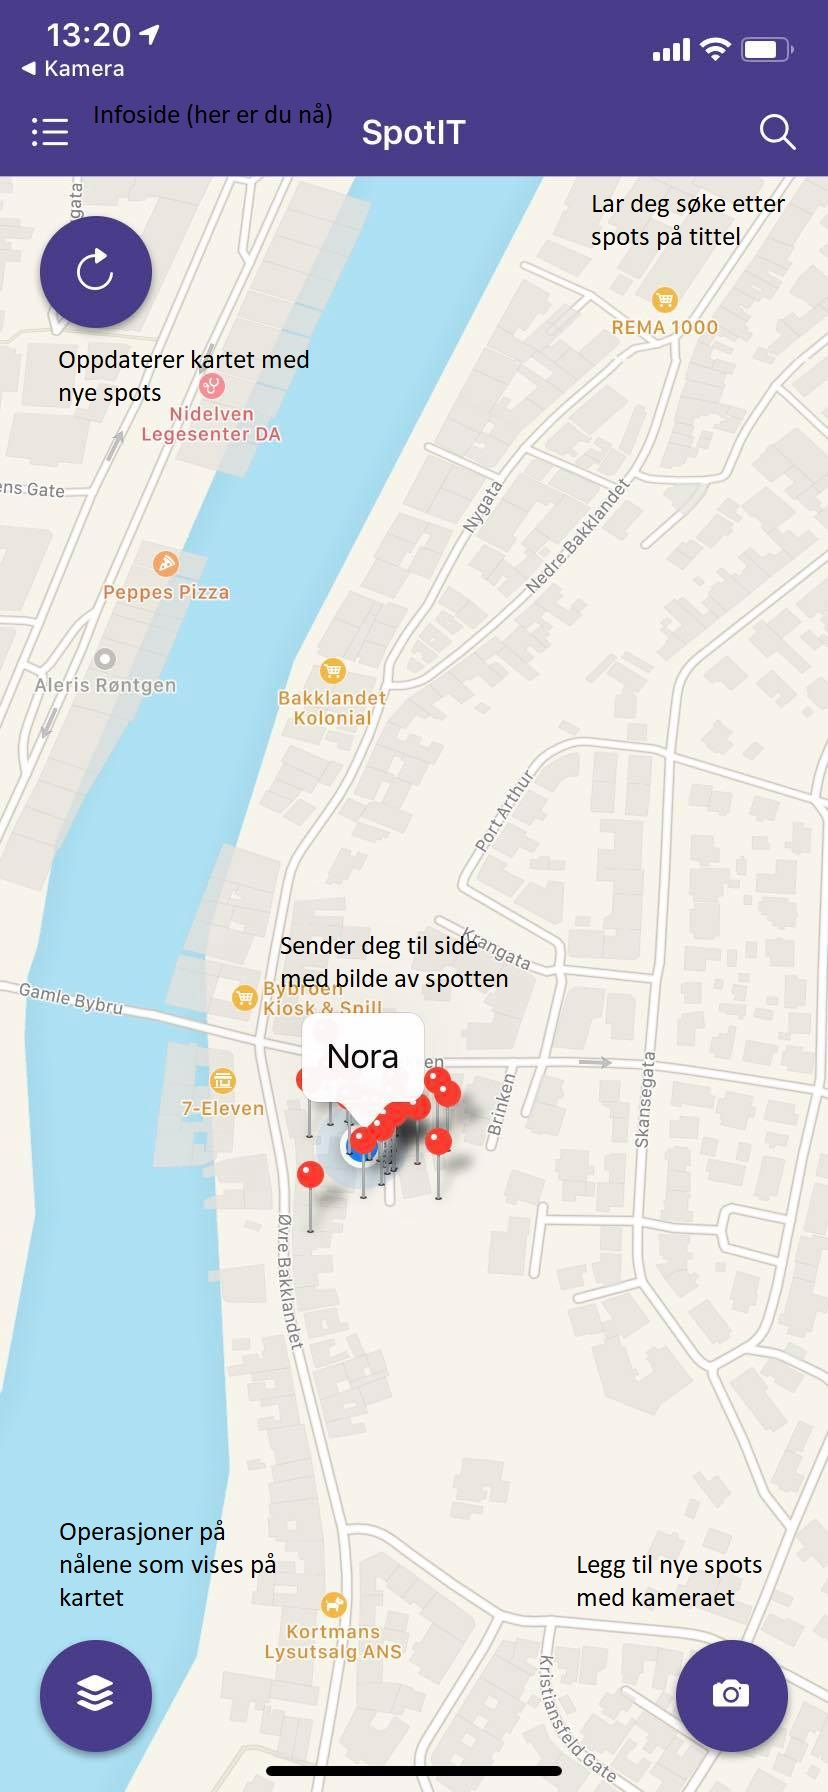
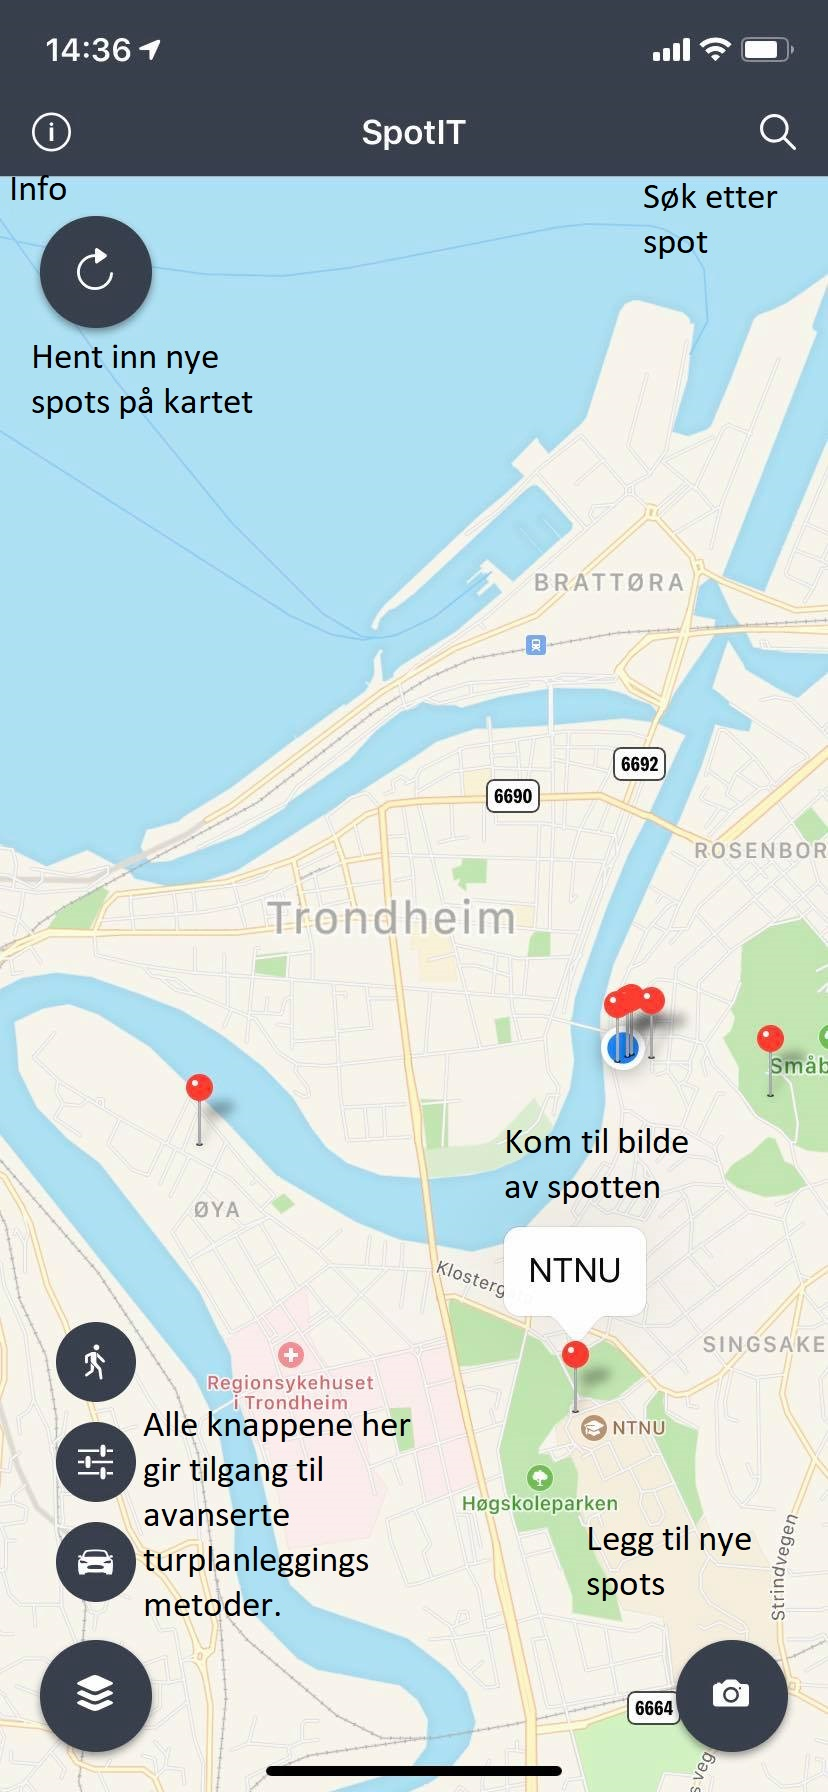
jeg er den som commiter vegard commiter aldri

diff --git a/Screens/WalkScreen.js b/Screens/WalkScreen.js
@@ -1,0 +1,273 @@
+import React, { Component } from 'react';
+import { View, Text, StyleSheet, Alert, TouchableOpacity, Image } from 'react-native';
+import { Picker, Icon, Button } from 'native-base';
+
+
+export default class WalkScreen extends Component {
+
+    static navigationOptions = {
+        headerTitle: 'SpotIT',
+        headerStyle: {
+            backgroundColor: '#393f4d'
+        },
+        headerTintColor: 'white'
+    }
+
+    constructor() {
+        super();
+        this.state = {
+            myLat: '',
+            myLong: '',
+            waitMsg: '',
+            type: 'Godt og blandet',
+            styrke: 'Medium',
+            rating: 0,
+            altitude:''
+        }
+        this.Star = require('../images/Star_full.png');
+        this.Star_With_Border = require('../images/Star_empty.png');
+    }
+    renderElement() {
+        if (this.state.myLat != '') {
+            this.submit();
+        }
+
+        else {
+            this.setState({
+                waitMsg: 'Oisann! Vi har ikke hentet din lokasjon enda. Prøv igjen om noen sekunder.'
+            })
+        }
+    }
+    UpdateRating(key) {
+        this.setState({ rating: key });
+        //Keeping the Rating Selected in state
+    }
+
+    componentDidMount() {
+        navigator.geolocation.getCurrentPosition(
+            position => {
+                this.setState({ 
+                    myLat: position.coords.latitude,
+                    myLong: position.coords.longitude,
+                    altitude: position.coords.altitude
+                });
+            },
+            error => Alert.alert(error.message),
+            { enableHighAccuracy: true, timeout: 20000, maximumAge: 1000 }
+        );
+    }
+
+    submit() {
+        let vp = {}
+        vp.latitude = this.state.myLat
+        vp.longitude = this.state.myLong
+        vp.styrke = this.state.styrke
+        vp.type = this.state.type
+        vp.rating = this.state.rating
+        vp.altitude = this.state.altitude
+        fetch('https://ff4349a1.ngrok.io/lazyWalk', {
+            method: 'POST', // or 'PUT'
+            headers: {
+                'Accept': 'application/json',
+                'Content-Type': 'application/json',
+            },
+            body: JSON.stringify(vp),
+        })
+            .then((response) => response.json())
+            .then((vp) => {
+                if (vp.viewPoints) {
+                    this.props.navigation.navigate('NewMap3', { vp: vp.viewPoints });
+                }
+                else {
+                    this.setState({
+                        waitMsg: 'Det finnes desverre ingen spots som matcher dine søkekriterier. '
+                    })
+                }
+            })
+            .catch((error) => {
+                console.error('Error:', error);
+            });
+    }
+
+    render() {
+
+        let Dynamic_Rating_Bar = [];
+        //Array to hold the filled or empty Stars
+        for (var i = 1; i <= 5; i++) {
+            Dynamic_Rating_Bar.push(
+                <TouchableOpacity
+                    activeOpacity={0.7}
+                    key={i}
+                    onPress={this.UpdateRating.bind(this, i)}>
+                    <Image
+                        style={styles.StarImage}
+                        source={
+                            i <= this.state.rating
+                                ? this.Star
+                                : this.Star_With_Border
+                        }
+                    />
+                </TouchableOpacity>
+            );
+        }
+        return (
+            <View style={styles.container}>
+
+                <View style={styles.textfield}>
+                    <View style={styles.item}>
+                        <Text style={{ textAlign: 'center', fontSize: 20, fontWeight: 'bold' }}>
+                            Finn spotten for deg!
+                        </Text>
+                    </View>
+                    <View style={styles.item}>
+                        <Text style={{ textAlign: 'center', fontSize: 15 }}>
+                            Ønsker du å slite deg ut minst mulig er dette funksjonalitet for deg!
+                            Her veies lengde av turen opp mot høydeforskjell etter eget ønske.
+                            Velg "Lett" hvis du hater bakker. Dersom kort turlengde er viktigst velg "Hard"
+                            Tilbake vil du få den perfekte sptten for deg! God tur!
+                        </Text>
+                    </View>
+                    <View style={styles.item}>
+                        <Text style={{ textAlign: 'center', fontWeight: 'bold', fontSize: 15 }}>Hilsen oss i SpotIT</Text>
+                    </View>
+                </View>
+
+                <View style={styles.ratingfield}>
+                    <View style={styles.rating}>
+                        <View style={styles.starview}>{Dynamic_Rating_Bar}</View>
+                    </View>
+                    <View style={styles.item}>
+                        <Text style={{ textAlign: 'center', fontSize: 15 }}>Minimum rating: {this.state.rating}</Text>
+                    </View>
+                </View>
+
+
+
+                <View style={styles.pickerfield}>
+                    <Picker
+                        selectedValue={this.state.styrke}
+                        style={styles.picker}
+                        onValueChange={(itemValue, itemIndex) => this.setState({ styrke: itemValue })}
+                        headerStyle={{ backgroundColor: '#393f4d' }}
+                        headerBackButtonTextStyle={{ color: 'white' }}
+                        headerTitleStyle={{ color: 'white' }}
+                        iosHeader="Velg type"
+                        iosIcon={<Icon name="arrow-down" />}>
+                        <Picker.Item label="Lett" value="Lett" />
+                        <Picker.Item label="Medium" value="Medium" />
+                        <Picker.Item label="Hard" value="Hard" />
+                    </Picker>
+                    <Picker
+                        selectedValue={this.state.type}
+                        style={styles.picker}
+                        onValueChange={(itemValue, itemIndex) => this.setState({ type: itemValue })}
+                        headerStyle={{ backgroundColor: '#393f4d' }}
+                        headerBackButtonTextStyle={{ color: 'white' }}
+                        headerTitleStyle={{ color: 'white' }}
+                        iosHeader="Velg type"
+                        iosIcon={<Icon name="arrow-down" />}>
+                        <Picker.Item label="Godt og blandet" value="Godt og blandet" />
+                        <Picker.Item label="Arkitektur" value="Arkitektur" />
+                        <Picker.Item label="Utkikkspunkt" value="Utkikkspunkt" />
+                        <Picker.Item label="Natur" value="Natur" />
+                        <Picker.Item label="Kultur" value="Kultur" />
+                        <Picker.Item label="Annet" value="Annet" />
+                    </Picker>
+
+                </View>
+                <View style={styles.buttonfield}>
+                    <Button onPress={() => this.renderElement()} rounded info>
+                        <Text>  Finn turområde!  </Text>
+                    </Button>
+                    <Text style={{ textAlign: 'center' }}>{this.state.waitMsg}</Text>
+                </View>
+
+            </View>
+        )
+    }
+}
+
+const styles = StyleSheet.create({
+    container: {
+        flex: 1,
+        alignItems: 'center',
+        justifyContent: 'center',
+        padding: 20,
+        //backgroundColor: 'black'
+    },
+    textfield: {
+        flex: 4,
+        alignItems: 'center',
+        justifyContent: 'center',
+        //backgroundColor: 'green',
+        width: '100%',
+        padding: 10
+    },
+    sliderfield: {
+        flex: 2,
+        width: '100%',
+        alignItems: 'center',
+        justifyContent: 'center',
+        //backgroundColor: 'yellow',
+        padding: 10,
+    },
+    ratingfield: {
+        flex: 2,
+        alignItems: 'center',
+        justifyContent: 'center',
+        //backgroundColor: 'blue',
+        padding: 10,
+        marginTop: -70
+    },
+    pickerfield: {
+        flex: 1,
+        alignItems: 'center',
+        width: '100%',
+        justifyContent: 'center',
+        //backgroundColor: 'blue',
+        padding: 10,
+    },
+    buttonfield: {
+        flex: 1,
+        alignItems: 'center',
+        justifyContent: 'center',
+        //backgroundColor: 'red',
+        width: '100%',
+        padding: 10,
+    },
+    item: {
+        padding: 5,
+        justifyContent: 'center',
+        alignItems: 'center',
+    },
+    slider: {
+        padding: 10,
+        justifyContent: 'center',
+        alignItems: 'center',
+        width: '100%',
+    },
+    rating: {
+        paddingBottom: 20,
+        alignItems: 'center',
+        justifyContent: 'center'
+    },
+    starview: {
+        justifyContent: 'center',
+        flexDirection: 'row',
+    },
+    StarImage: {
+        width: 35,
+        height: 35,
+        resizeMode: 'cover',
+    },
+    picker: {
+        flex: 1,
+        //borderColor: 'black',
+        //borderWidth: 2,
+        width: '60%',
+        //backgroundColor: 'purple',
+        justifyContent: 'center',
+        alignItems: 'center',
+    }
+})
+

diff --git a/Screens/HomeScreen.js b/Screens/HomeScreen.js
@@ -11,6 +11,7 @@ export default class HomeScreen extends React.Component {
       latitude: '',
       longitude: '',
       isLoading: true,
+      altitude: '',
     }
   }
 
@@ -49,7 +50,7 @@ export default class HomeScreen extends React.Component {
   }
 
   async updateData() {
-    return await fetch('https://b9c06019.ngrok.io/getViewPointInfo')
+    return await fetch('https://ff4349a1.ngrok.io/getViewPointInfo')
       .then((response) => response.json())
       .then((responseJson) => {
         this.setState({
@@ -67,6 +68,7 @@ export default class HomeScreen extends React.Component {
           this.setState({
             latitude: position.coords.latitude,
             longitude: position.coords.longitude,
+            altitude: position.coords.altitude,
             isLoading: false
           });
         },
@@ -75,7 +77,6 @@ export default class HomeScreen extends React.Component {
       );
     }
   }
-
   async componentDidMount() {
     this.getPosition()
     return await fetch('https://ff4349a1.ngrok.io/getViewPointInfo')
@@ -136,6 +137,9 @@ export default class HomeScreen extends React.Component {
           </Button>
           <Button style={{ backgroundColor: '#393f4d' }} onPress={() => this.props.navigation.navigate('Filter')}>
             <Icon name="md-options" />
+          </Button>
+          <Button style={{ backgroundColor: '#393f4d' }} onPress={() => this.props.navigation.navigate('Walk')}>
+            <Icon name="ios-walk" />
           </Button>
         </Fab>
         <Fab direction="center" position="bottomRight"

diff --git a/Screens/PublishScreen.js b/Screens/PublishScreen.js
@@ -10,6 +10,7 @@ class PublishScreen extends Component {
             title: '',
             latitude: '',
             longitude: '',
+            altitude:'',
             ventMelding: '',
             skrivInnTittel: '',
             type: 'Arkitektur',
@@ -33,8 +34,12 @@ class PublishScreen extends Component {
     componentDidMount() {
         navigator.geolocation.getCurrentPosition(
             position => {
-                this.setState({ 'latitude': position.coords.latitude });
-                this.setState({ 'longitude': position.coords.longitude });
+                this.setState({
+                    latitude: position.coords.latitude,
+                    longitude: position.coords.longitude,
+                    altitude: position.coords.altitude
+
+             });
             },
             error => Alert.alert(error.message),
             { enableHighAccuracy: true, timeout: 20000, maximumAge: 1000 }
@@ -54,6 +59,7 @@ class PublishScreen extends Component {
         vp.latitude = this.state.latitude
         vp.longitude = this.state.longitude
         vp.type = this.state.type
+        vp.altitude = this.state.altitude
         console.log(vp.longitude)
         console.log(vp.latitude)
         console.log(this.props.navigation.getParam('kefoijwe'))

diff --git a/App.js b/App.js
@@ -11,6 +11,7 @@ import InfoScreen from './Screens/InfoScreen';
 import FuzzyScreen from './Screens/FuzzyScreen';
 import NewMapScreen3 from './Screens/NewMapScreen3';
 import FilterScreen from './Screens/FilterScreen';
+import WalkScreen from './Screens/WalkScreen';
 
 
 
@@ -21,6 +22,7 @@ const Container = createStackNavigator({
   Spot: SpotScreen,
   Fuzzy: FuzzyScreen,
   Camera: CameraScreen,
+  Walk: WalkScreen,
   Filter: FilterScreen,
   NewMap3: NewMapScreen3,
   Info:InfoScreen,

diff --git a/Screens/SpotScreen.js b/Screens/SpotScreen.js
@@ -96,7 +96,7 @@ export default class SpotScreen extends Component {
     async componentDidMount() {
         let vp = {}
         vp.id = this.props.navigation.getParam('ID')
-        await fetch('https://b9c06019.ngrok.io/getViewPoint', {
+        await fetch('https://ff4349a1.ngrok.io/getViewPoint', {
             method: 'POST',
             headers: {
                 'Accept': 'application/json',
